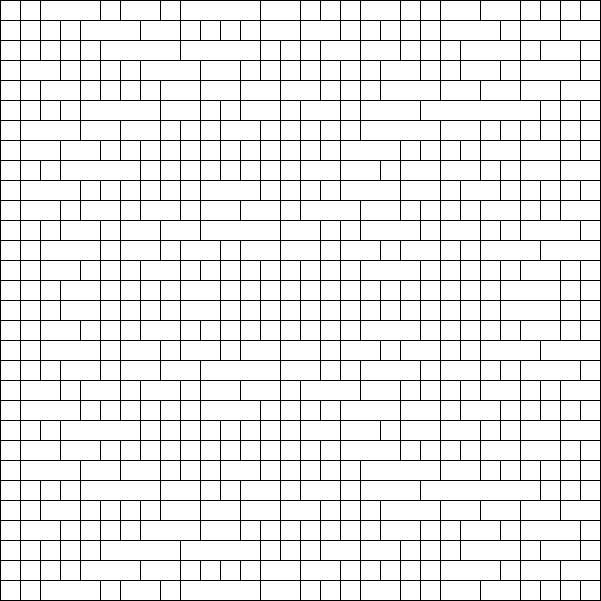
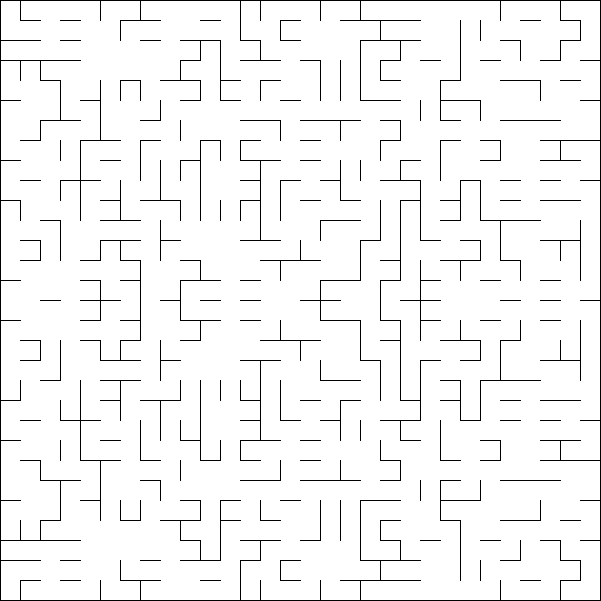
algorithme improvement de sidewinder

diff --git a/test/demo/src/main/java/com/maze/maze.java b/test/demo/src/main/java/com/maze/maze.java
@@ -131,43 +131,40 @@ public void eachCell(Consumer<cell> block) {
         });
     }
 
-public void sidewing (int odd, int e){
-    boolean close = false;
-    for (int row = grid.length/2; row < grid.length; row++) {
+public void sidewing(int odd, int e) {
+    Random rand = new Random();
+    for (int r = rows / 2; r < rows; r++) {
         ArrayList<cell> run = new ArrayList<>();
-        ArrayList<cell> cell_up = new ArrayList<>();
-        for (cell cell : grid[row]) {
-            run.add(cell);
-            Random rand = new Random();
-            if (cell.west == null || rand.nextInt(100) > odd) {
-                 close = true;
-            }
-            if (close){
-                for (int i = 0; i<(run.size()/e); i++){
-                    int index = rand.nextInt(run.size());
-                    cell_up.add(run.get(index));
-                    run.remove(index);
+        
+        for (int c = 0; c < columns; c++) {
+            cell currentCell = get(r, c);
+            run.add(currentCell);
+            boolean close = (currentCell.east == null) || (rand.nextInt(100) < odd);
+
+            if (close) {
+                // Utilisation du plafond (Math.ceil) pour garantir au moins un passage
+                int nbPassages = (int) Math.ceil((double) run.size() / e);
+                
+                for (int i = 0; i < nbPassages; i++) {
+                    if (run.isEmpty()) break;
+                    cell picked = run.remove(rand.nextInt(run.size()));
+    
+                    if (picked.north != null) {
+                        picked.link(picked.north);
+                        cell sym = get((rows - 1) - picked.row, picked.column);
+                        if (sym != null && sym.south != null) {
+                            sym.link(sym.south);
+                        }
+                    }
                 }
-            while (cell_up.size() > 0){
-                cell picked_cell = cell_up.remove(0);
-                cell sym_cell = get((rows - 1) - cell.row, cell.column);
-                if (picked_cell.north != null){
-                    picked_cell.link(picked_cell.north);
-                }
-                if (sym_cell.south != null){
-                    sym_cell.link(sym_cell.south);
-                }
-            }
-            close = false;
-            run.clear();
-            }
-            else {
-                cell sym_cell = get((rows - 1) - cell.row, cell.column);
-                if (sym_cell.east != null){
-                    sym_cell.link(sym_cell.east);
-                }
-                if (cell.east != null){
-                        cell.link(cell.east);
+                run.clear();
+            } else {
+                if (currentCell.east != null) {
+                    currentCell.link(currentCell.east);
+                    cell sym = get((rows - 1) - currentCell.row, currentCell.column);
+                    if (sym != null && sym.east != null) {
+                        sym.link(sym.east);
+                    }
                 }
             }
         }

diff --git a/test/demo/src/main/java/com/maze/Main.java b/test/demo/src/main/java/com/maze/Main.java
@@ -4,7 +4,7 @@ public class Main {
     public static void main(String[] args) {
         try {
             maze maze = new maze(30, 30);
-            maze.sidewing(35, 99);
+            maze.sidewing(35, 2);
             maze.renderMaze(20);
         } catch (Exception e) {
             e.printStackTrace();
